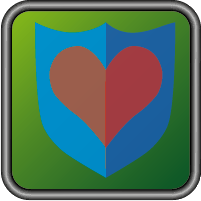
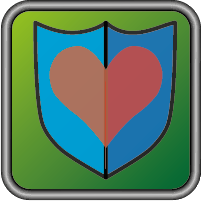
shield-/dmgX2 button updated, Playerboss and projectile updated: Josie is now abled to shoot in 4 different variations when right ID is given (1-4)

Changed region(s): [[0.1493, 0.0896, 0.8955, 0.8955]]

diff --git a/JosieGame/Classes/PlayerBoss.cpp b/JosieGame/Classes/PlayerBoss.cpp
@@ -4,7 +4,6 @@
 
 using namespace cocos2d;
 
-
 const float walkspeed = 11.0;
 
 PlayerBoss::PlayerBoss() {
@@ -14,34 +13,99 @@ PlayerBoss::~PlayerBoss() {
 	CCLOG("~BOSSPLAYER");
 }
 
-PlayerBoss* PlayerBoss::initWithLevel(Level* level)
-{
+PlayerBoss* PlayerBoss::initWithLevel(Level* level) {
 	PlayerBoss *bp = new PlayerBoss();
 	bp->initWithFile("josie/josie_transformed_static.png");
 	bp->autorelease();
-	bp->setAnchorPoint(Vec2(0.5,0));
+	bp->setAnchorPoint(Vec2(0.5, 0));
 	bp->_level = level;
 	return bp;
 }
 
-void PlayerBoss::moveLeft()
-{
-	this->setPositionX( this->getPositionX() - walkspeed );
+void PlayerBoss::moveLeft() {
+	this->setPositionX(this->getPositionX() - walkspeed);
 }
-void PlayerBoss::moveRight()
-{
-	this->setPositionX( this->getPositionX() + walkspeed );
+void PlayerBoss::moveRight() {
+	this->setPositionX(this->getPositionX() + walkspeed);
 }
-void PlayerBoss::shoot(int counterForShoot)
-{
-	if(counterForShoot == 0)
-	{
-		Projectile* projectile = Projectile::init(this->getBoundingBox().getMidX(), this->getBoundingBox().getMaxY());
-		_level->addChild(projectile,1);
-		projectile->runAction(MoveTo::create(2.0f,Vec2(this->getPositionX(),900)));
+void PlayerBoss::shoot(int counterForShoot) {
+	if (counterForShoot == 0) {
+	this->useShot(4);
 	}
 }
-void PlayerBoss::jump()
-{
+void PlayerBoss::jump() {
 	// TODO: jump
+}
+
+void PlayerBoss::useShot(int id) {
+	switch (id) {
+	case 1: {
+		Projectile* projectile_mid = Projectile::init(
+					this->getBoundingBox().getMidX(),
+					this->getBoundingBox().getMaxY());
+		_level->addChild(projectile_mid, 1);
+		projectile_mid->runAction(
+				MoveTo::create(2.0f, Vec2(this->getPositionX(), 1100)));
+	} break;
+	case 2: {
+		Projectile* projectile_midright = Projectile::init(
+				this->getBoundingBox().getMidX() + 20,
+				this->getBoundingBox().getMaxY());
+		Projectile* projectile_midleft = Projectile::init(
+				this->getBoundingBox().getMidX() - 20,
+				this->getBoundingBox().getMaxY());
+		_level->addChild(projectile_midleft, 1);
+		_level->addChild(projectile_midright, 1);
+		projectile_midleft->runAction(
+				MoveTo::create(2.0f, Vec2(this->getPositionX() - 20, 1100)));
+		projectile_midright->runAction(
+				MoveTo::create(2.0f, Vec2(this->getPositionX() + 20, 1100)));
+	}break;
+	case 3: {
+		Projectile* projectile_mid = Projectile::init(
+				this->getBoundingBox().getMidX(),
+				this->getBoundingBox().getMaxY());
+		Projectile* projectile_left = Projectile::init(
+				this->getBoundingBox().getMidX() - 40,
+				this->getBoundingBox().getMaxY());
+		Projectile* projectile_right = Projectile::init(
+				this->getBoundingBox().getMidX() + 40,
+				this->getBoundingBox().getMaxY());
+		_level->addChild(projectile_mid, 1);
+		_level->addChild(projectile_left, 1);
+		_level->addChild(projectile_right, 1);
+		projectile_mid->runAction(
+				MoveTo::create(2.0f, Vec2(this->getPositionX(), 1100)));
+		projectile_left->runAction(
+				MoveTo::create(2.0f, Vec2(this->getPositionX() - 300, 1100)));
+		projectile_right->runAction(
+				MoveTo::create(2.0f, Vec2(this->getPositionX() + 300, 1100)));
+	}break;
+	case 4: {
+		Projectile* projectile_midright = Projectile::init(
+				this->getBoundingBox().getMidX() + 20,
+				this->getBoundingBox().getMaxY());
+		Projectile* projectile_midleft = Projectile::init(
+				this->getBoundingBox().getMidX() - 20,
+				this->getBoundingBox().getMaxY());
+		Projectile* projectile_left = Projectile::init(
+				this->getBoundingBox().getMidX() - 40,
+				this->getBoundingBox().getMaxY());
+		Projectile* projectile_right = Projectile::init(
+				this->getBoundingBox().getMidX() + 40,
+				this->getBoundingBox().getMaxY());
+		_level->addChild(projectile_midleft, 1);
+		_level->addChild(projectile_midright, 1);
+		_level->addChild(projectile_left, 1);
+		_level->addChild(projectile_right, 1);
+		projectile_midleft->runAction(
+				MoveTo::create(2.0f, Vec2(this->getPositionX() - 20, 1100)));
+		projectile_midright->runAction(
+				MoveTo::create(2.0f, Vec2(this->getPositionX() + 20, 1100)));
+		projectile_left->runAction(
+				MoveTo::create(2.0f, Vec2(this->getPositionX() - 300, 1100)));
+		projectile_right->runAction(
+				MoveTo::create(2.0f, Vec2(this->getPositionX() + 300, 1100)));
+	}break;
+	}
 }

diff --git a/JosieGame/Classes/Projectile.cpp b/JosieGame/Classes/Projectile.cpp
@@ -20,7 +20,7 @@ Projectile* Projectile::init(float x , float y)
 
 void Projectile::update(float dt)
 {
-	if (this->getPositionY() >= 900) this->killProjectile();
+	if (this->getPositionY() >= 1100) this->killProjectile();
 }
 
 void Projectile::killProjectile()

diff --git a/JosieGame/Classes/PlayerBoss.h b/JosieGame/Classes/PlayerBoss.h
@@ -14,6 +14,8 @@ public:
 	void moveRight();
 	void shoot(int counterForShoot);
 	void jump();
+
+	void useShot(int id);
 private:
 	Level* _level;
 };
